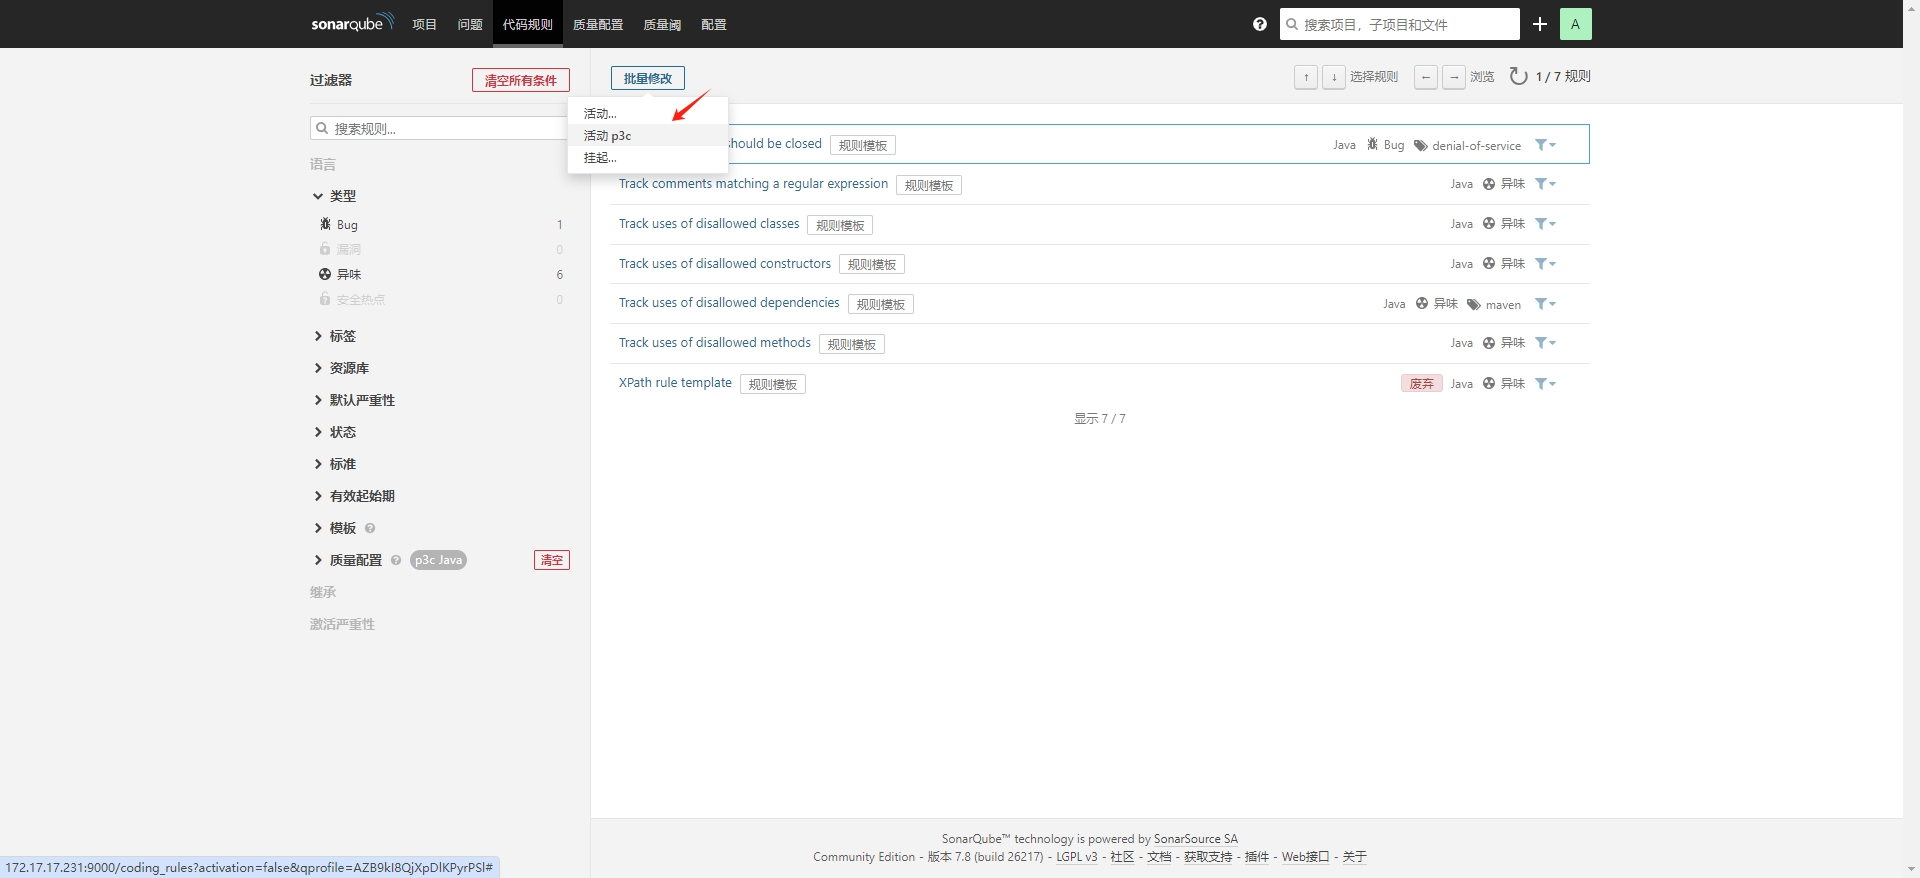
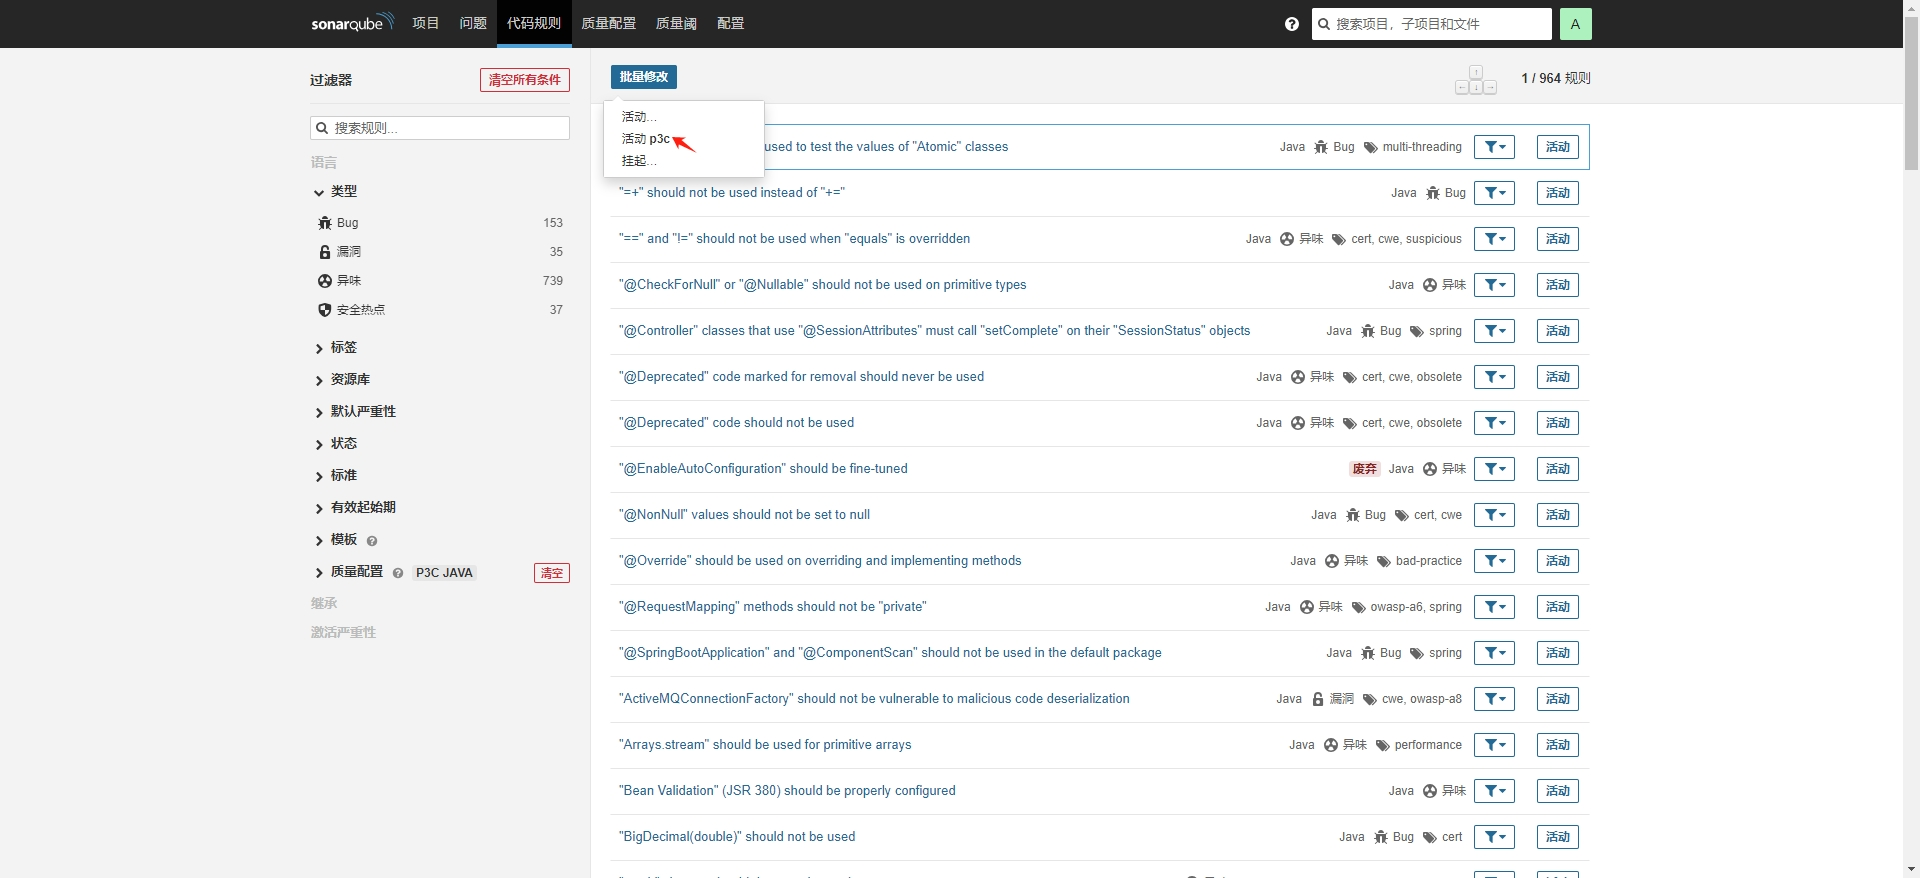
update SonarQube 9.9.7 LTA

diff --git a/docs/deploy/sonarqube.md b/docs/deploy/sonarqube.md
@@ -1,24 +1,26 @@
-# SonarQube 7.8
+# SonarQube 9.9.7 LTA
 
 SonarQube是一个用于管理代码质量的开放平台，可以快速的定位代码中潜在的或者明显的错误。目前支持java,C#,C/C++,Python,PL/SQL,Cobol,JavaScrip,Groovy等二十几种编程语言的代码质量管理与检测。
 
 - 官网地址：https://www.sonarqube.org/
+- 安装说明：https://docs.sonarsource.com/sonarqube-server/9.9
 - 下载地址：https://binaries.sonarsource.com/?prefix=Distribution/sonarqube/
 
 | **组件**  | **版本**  | **描述**  |
 | :---------- | :---------- | :---------------------------------- |
-| jdk    | 1.8.0 | Java运行环境 |
+| Java    | 11 LTS | Java运行环境 |
 | PostgreSQL    | 12.4 | 数据库 |
-| SonarQube    | 社区版7.8 | SonarQube 7.9开始需要Java 11且不支持mysql |
+| SonarQube    | 社区版9.9 LTA | SonarQube 7.9开始需要Java 11且不支持mysql |
 
 ## 1. 安装
 
 ### 1.1 下载解压
 
 ```bash
-cd /opt/software/
-unzip sonarqube-7.8.zip 
-mv sonarqube-7.8 /opt/
+cd /opt
+sudo wget https://binaries.sonarsource.com/Distribution/sonarqube/sonarqube-9.9.7.96285.zip
+sudo unzip sonarqube-9.9.7.96285.zip
+sudo mv sonarqube-9.9.7.96285 sonarqube-9.9
 ```
 
 ### 1.2 创建数据库
@@ -29,37 +31,45 @@ create database "sonardb" template template1 owner "sonar";
 grant all privileges on database "sonardb" to "sonar";
 ```
 
+> 如果是Oracle数据库，需要添加JDBC驱动，路径：`/opt/sonarqube-9.9/extensions/jdbc-driver/oracle/`
+
 ### 1.3 修改配置
 
-#### 1.3.1 修改数据库连接
+#### 1.3.1 设置数据库连接
 
 ```bash
-vi /opt/sonarqube-7.8/conf/sonar.properties
+vi /opt/sonarqube-9.9/conf/sonar.properties
 ```
 
 添加以下配置
 
 ```conf
 # 数据库连接信息
-sonar.jdbc.url=jdbc:postgresql://xxx.xxx.xxx.xxx:5432/sonardb
-sonar.jdbc.username=sonar
-sonar.jdbc.password=123456
-sonar.sorceEncoding=UTF-8
-# SonarQube的web页面登录信息
-sonar.login=admin
-sonar.password=admin
+sonar.jdbc.url=jdbc:postgresql://localhost/sonarqube
+sonar.jdbc.username=sonarqube
+sonar.jdbc.password=mypassword
 ```
 
-#### 1.3.2 修改Sonar的JDK版本
+#### 1.3.2 设置Web服务
+
+默认服务端口是9000，如果9000端口被占用，可以修改配置文件
 
 ```bash
-vi /opt/sonarqube-7.8/conf/wrapper.conf
+sonar.web.host=0.0.0.0
+sonar.web.port=9000
+sonar.web.context=/
 ```
 
-找到`wrapper.java.command`行，将路径修改为java目录
+#### 1.3.3 设置Java环境
 
-```conf
-wrapper.java.command=/usr/local/jdk1.8.0_202/bin/java
+```bash
+vi /etc/profile
+# 末尾添加
+export SONAR_JAVA_PATH=/opt/jdk-11.0.22/bin/java
+```
+
+```bash
+source /etc/profile
 ```
 
 ### 1.4 系统设置
@@ -96,13 +106,13 @@ passwd sonar
 赋予启动用户执行权限
 
 ```bash
-chown -R sonar:sonar /opt/sonarqube-7.8/
+chown -R sonar:sonar /opt/sonarqube-9.9/
 ```
 
 ### 1.6 启动服务
 
 ```bash
-su sonar /opt/sonarqube-7.8/bin/linux-x86-64/sonar.sh start
+su sonar /opt/sonarqube-9.9/bin/linux-x86-64/sonar.sh start
 ```
 
 设置开机自动
@@ -111,7 +121,7 @@ su sonar /opt/sonarqube-7.8/bin/linux-x86-64/sonar.sh start
 vi /etc/rc.d/rc.local
 
 # 添加以下命令
-su sonar /opt/sonarqube-7.8/bin/linux-x86-64/sonar.sh start
+su sonar /opt/sonarqube-9.9/bin/linux-x86-64/sonar.sh start
 ```
 
 ### 1.7 插件管理
@@ -121,14 +131,14 @@ su sonar /opt/sonarqube-7.8/bin/linux-x86-64/sonar.sh start
 把下载成功的插件复制到\extensions\plugins目录
 
 ```bash
-cp /opt/software/sonarqube/sonar-l10n-zh-plugin-1.28.jar /opt/sonarqube-7.8/extensions/plugins
+cp /opt/software/sonarqube/sonar-l10n-zh-plugin-1.28.jar /opt/sonarqube-9.9/extensions/plugins
 ```
 
 ```bash
-su sonar /opt/sonarqube-7.8/bin/linux-x86-64/sonar.sh restart
+su sonar /opt/sonarqube-9.9/bin/linux-x86-64/sonar.sh restart
 ```
 
-> 重启服务，如果是root用户上传后，需`chown -R sonar:sonar /opt/sonarqube-7.8/`，否则重启不成功
+> 重启服务，如果是root用户上传后，需`chown -R sonar:sonar /opt/sonarqube-9.9/`，否则重启不成功
 
 #### 1.7.2 p3c插件
 
@@ -137,13 +147,13 @@ P3C是根据《阿里巴巴Java开发手册》转化而成的自动化插件。
 P3C原是海上巡逻机的型号。宽大机身可携带大量电子设备，翼下有十个武器外挂点，机腹下有八个内部炸弹舱，可携带AGM-65空地导弹、AGM-84反舰导弹、MK-46/50鱼雷和MU-90鱼雷以及深水炸弹、水雷等；被用来执行侦察、反潜、反水面、监视巡逻等海上任务。代码的世界里专治新手小毛病、老油条的各种不服
 
 ```bash
-cp /opt/software/sonarqube/sonar-pmd-plugin-3.2.0-SNAPSHOT.jar /opt/sonarqube-7.8/extensions/plugins
+cp /opt/software/sonarqube/sonar-pmd-plugin-3.2.0-SNAPSHOT.jar /opt/sonarqube-9.9/extensions/plugins
 ```
 
 重启服务
 
 ```bash
-su sonar /opt/sonarqube-7.8/bin/linux-x86-64/sonar.sh restart
+su sonar /opt/sonarqube-9.9/bin/linux-x86-64/sonar.sh restart
 ```
 
 ## 2. 应用设置
@@ -152,13 +162,15 @@ su sonar /opt/sonarqube-7.8/bin/linux-x86-64/sonar.sh restart
 
 我的账号 -> 安全 -> 点击【生成】
 
-![](../../assets/_images/deploy/sonarqube/create_token.png)
+![](../../assets/_images/deploy/sonarqube/create_token1.png)
+
+![](../../assets/_images/deploy/sonarqube/create_token2.png)
 
 ### 2.2 质量配置
 
 管理员帐户登录，质量配置 -> 创建
 
-![](../../assets/_images/deploy/sonarqube/add_rule.png)
+![](../../assets/_images/deploy/sonarqube/add_p3c.png)
 
 
 激活规则
